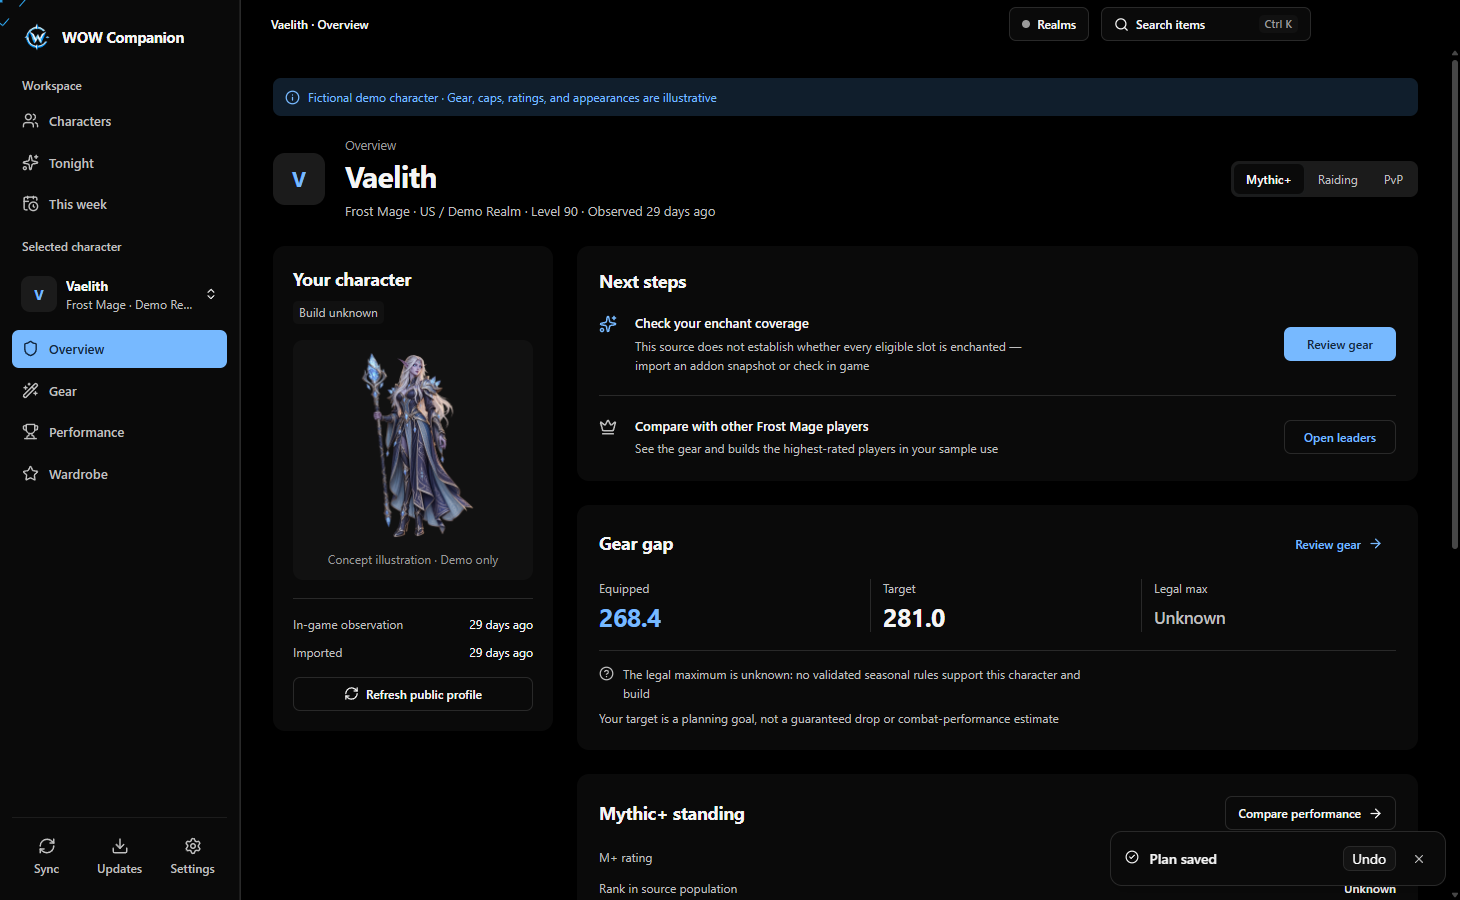
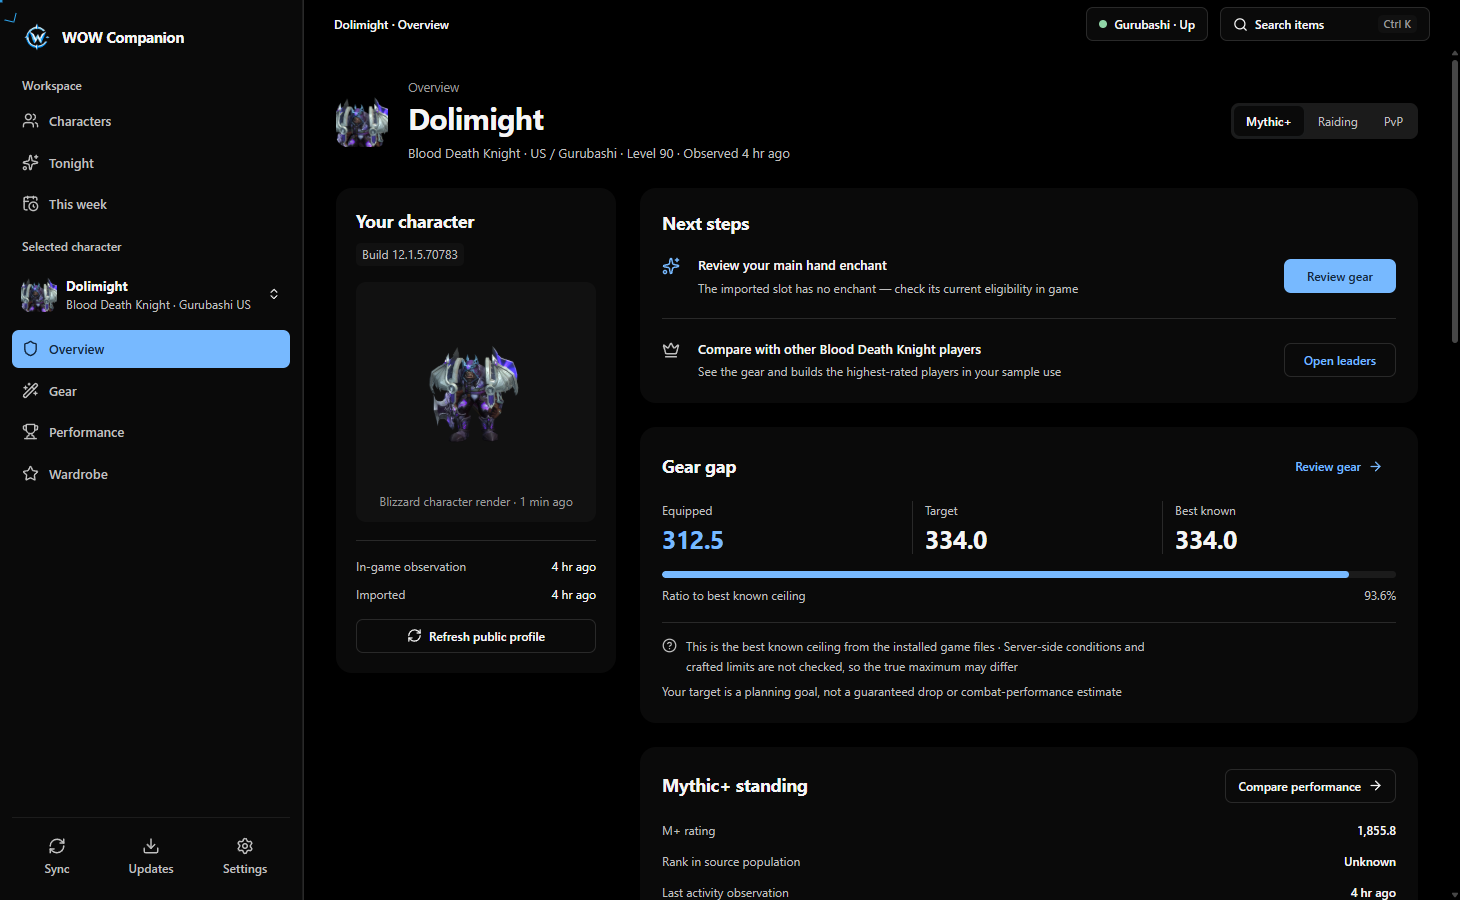
docs(readme): show real feature pages with game art
Replace the fictional acceptance captures with dark-mode captures of the maintainer's Blood Death Knight: overview,
gear plan paper doll, talents, item search, simulation ranking and slot comparison, and top players. Item icons,
talent art, and the character model come from the installed game.

diff --git a/docs/marketing/README.md b/docs/marketing/README.md
@@ -6,24 +6,20 @@ Original promotional artwork and real app captures for the project README and sh
 | --- | --- | --- |
 | [wow-companion-banner.png](wow-companion-banner.png) | Wide README header | Generated promotional artwork |
 | [wow-companion-social.png](wow-companion-social.png) | Standalone social card | Generated promotional artwork |
-| [roster.png](roster.png) | Dark roster table | Unaltered Electron acceptance capture |
-| [character-overview.png](character-overview.png) | Dark character overview | Unaltered Electron acceptance capture |
-| [gear-plan.png](gear-plan.png) | Dark gear plan | Unaltered Electron acceptance capture |
-| [item-search.png](item-search.png) | Dark item-search dialog | Unaltered Electron acceptance capture |
+| [character-overview.png](character-overview.png) | Character overview | Unaltered dev-app capture |
+| [gear-plan.png](gear-plan.png) | Gear plan paper doll | Unaltered dev-app capture |
+| [talents.png](talents.png) | Talent editor | Unaltered dev-app capture |
+| [item-search.png](item-search.png) | Item search dialog | Unaltered dev-app capture |
+| [simulation-roster.png](simulation-roster.png) | Plan ranked among top players | Unaltered dev-app capture |
+| [simulation-compare.png](simulation-compare.png) | Slot-by-slot simulation comparison | Unaltered dev-app capture |
+| [top-players.png](top-players.png) | Top players and talent builds | Unaltered dev-app capture |
 | [buymeacoffee-button.png](buymeacoffee-button.png) | README support link | Official Buy Me a Coffee button |
 
 The banner and social card were created on 2026-11-03 with the built-in image-generation tool, using the existing [compass logo](../../public/assets/wow-companion-logo.png) as a supporting brand reference. Their atlas scenes are original promotional illustrations, not game maps or app screenshots
 
 The [exact prompts](prompts.md) retain the requested copy, visual direction, and restrictions. The existing logo's provenance remains in [app assets](../../public/assets/README.md)
 
-The app captures come from the isolated desktop acceptance run `desktop-acceptance-1794529946390` on 2026-11-12, using the source of the Death Knight runeforge change (#70). All are dark mode at 1460 pixels wide
-
-- `roster.png` copies `acceptance/polish-characters-dark-1460.png`
-- `character-overview.png` copies `acceptance/polish-character-demo-dark-1460.png`
-- `gear-plan.png` copies `acceptance/polish-gear-dark-1460.png`
-- `item-search.png` copies `acceptance/item-search-populated-dark-1460.png`
-
-Characters, item names, ratings, and other values in these captures are fictional test data. The mage is the app's labeled generated concept illustration, not a captured player model. These images don't establish live-provider behavior, a current season ceiling, or a dynamic 3D character builder
+The app captures were taken on 2026-11-12 from the development build in dark mode at 1460 pixels wide (the gear plan at 1460 by 1120), using the maintainer's own character with the owner's consent. Item icons, talent art, and the character model come from the locally installed game; top-player names, scores, and builds come from public Raider.IO rankings; damage values come from a local SimulationCraft run
 
 Keep these documentation assets outside the app's shipping `public/assets` directory so release packages don't include marketing-only imagery
 

diff --git a/README.md b/README.md
@@ -53,31 +53,47 @@ Choose Light, Dark, or System appearance, plus a classic, nightly, or holiday ap
 
 ## Inside the app
 
-These are unaltered desktop acceptance captures using fictional characters and items. Demo numbers are illustrative, and the character artwork is a labeled concept illustration
-
-### Roster
-
-Every character in one table, with item level, distance to target, rating, and what needs attention
-
-![Dark roster table with fictional characters, item levels, and a selected-character pane](docs/marketing/roster.png)
+These are unaltered captures of a real Blood Death Knight in the desktop app, in dark mode, with item art and the character model read from the installed game
 
 ### Character overview
 
 See the character, saved target, and next steps together, with missing data left visible
 
-![Dark character overview with a fictional mage, gear target, and next steps](docs/marketing/character-overview.png)
+![Character overview with the Blizzard character render, gear gap, and next steps](docs/marketing/character-overview.png)
 
 ### Gear plan
 
-Plan each slot with its item, level, enchant, and gems beside what you wear now. Changes save on their own
+Plan every slot around your character model, with item icons, levels, upgrades, enchants, gems, and what you wear now. Changes save on their own
 
-![Dark gear plan with a fictional planned helm, enchant, and gems](docs/marketing/gear-plan.png)
+![Gear plan paper doll with item icons around the 3D character model and the slot editor](docs/marketing/gear-plan.png)
+
+### Talents
+
+Edit your build on the real talent tree, or start from the builds top players use
+
+![Talent editor with class, hero, and specialization trees and top-player build presets](docs/marketing/talents.png)
 
 ### Item search
 
-Browse compatible results, inspect sources, and add an item to your plan. Further results load as you scroll
+Browse items for a slot with their sources and the highest level they reach, then inspect stats at any track before adding one to your plan
 
-![Dark item-search dialog with fictional results and source filters](docs/marketing/item-search.png)
+![Head item search with season filters, item icons, and a stat detail pane](docs/marketing/item-search.png)
+
+### Simulate your plan against top players
+
+SimulationCraft runs your plan beside each top player's own gear and talents, on your character, and ranks you among them
+
+![Simulation ranking your plan among top players by damage](docs/marketing/simulation-roster.png)
+
+Step through each player to see why, slot by slot: which items, enchants, gems, and talents differ, and what each is worth
+
+![Slot-by-slot comparison of your plan against the top player with item, enchant, and gem icons](docs/marketing/simulation-compare.png)
+
+### Top players
+
+See the item level and talent builds of the highest-rated players of your specialization, and copy a build in one click
+
+![Top players page with average item level and talent builds to copy](docs/marketing/top-players.png)
 
 ## Updates and saved data
 
